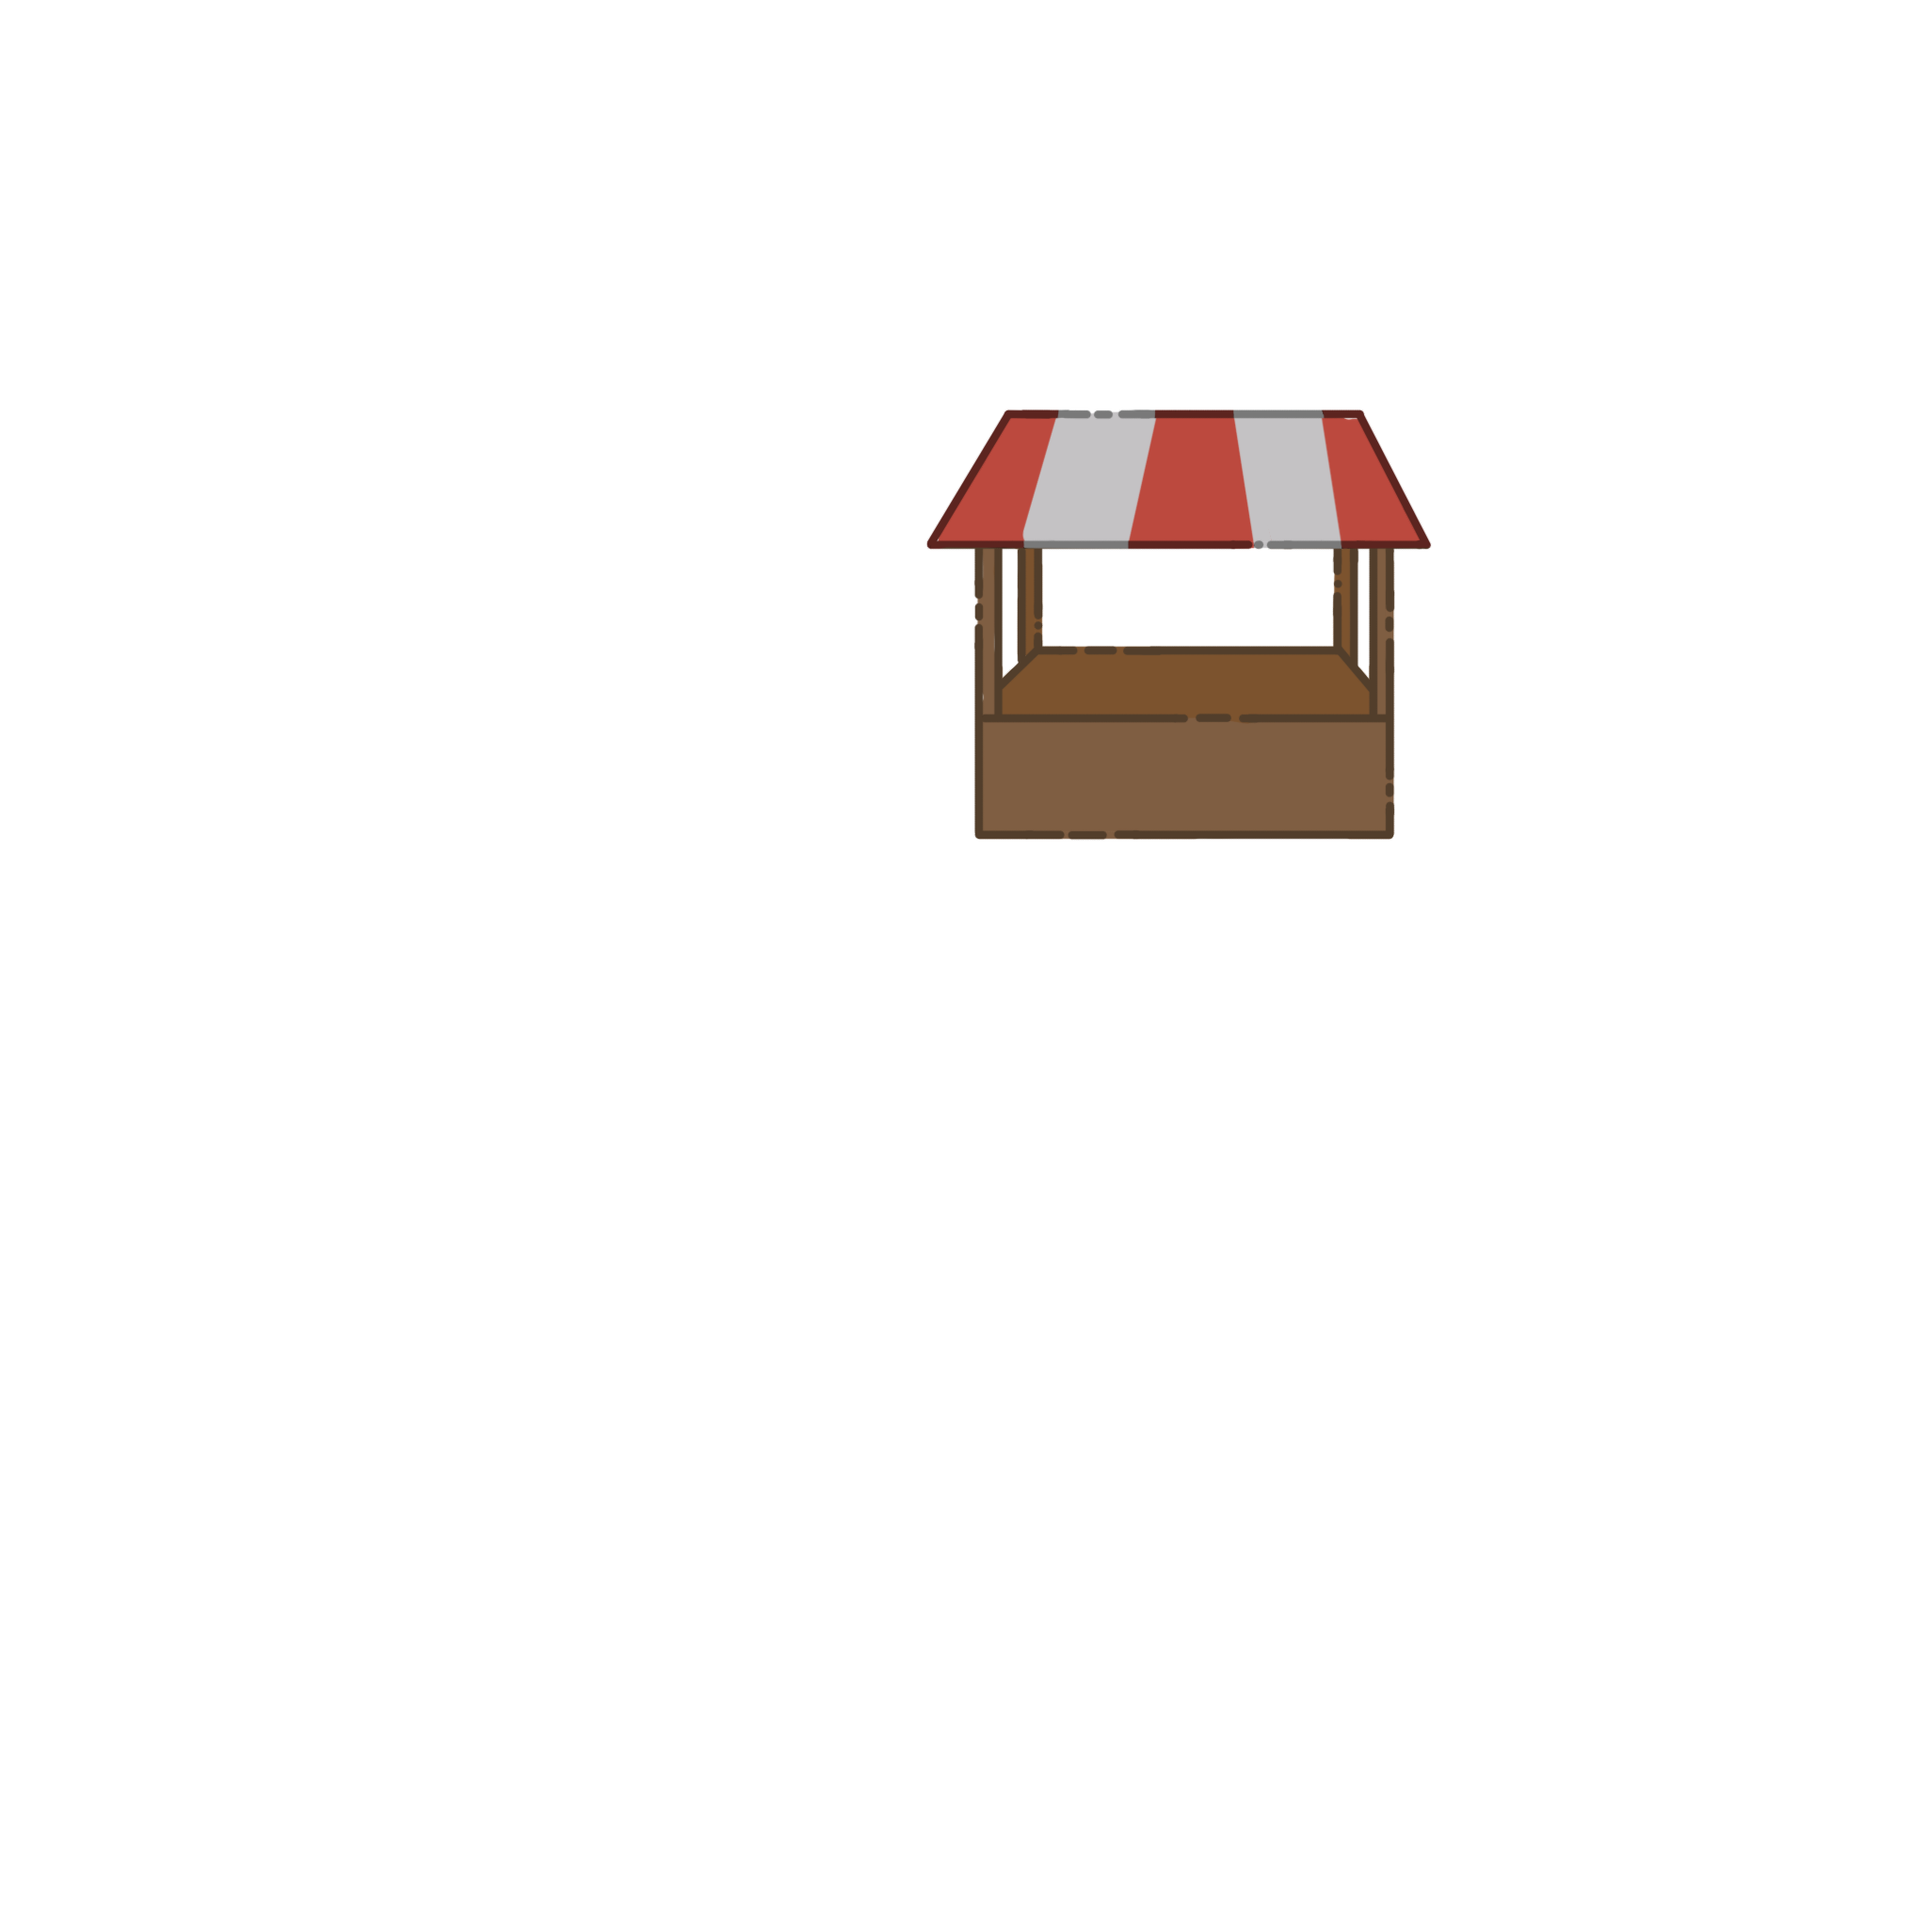
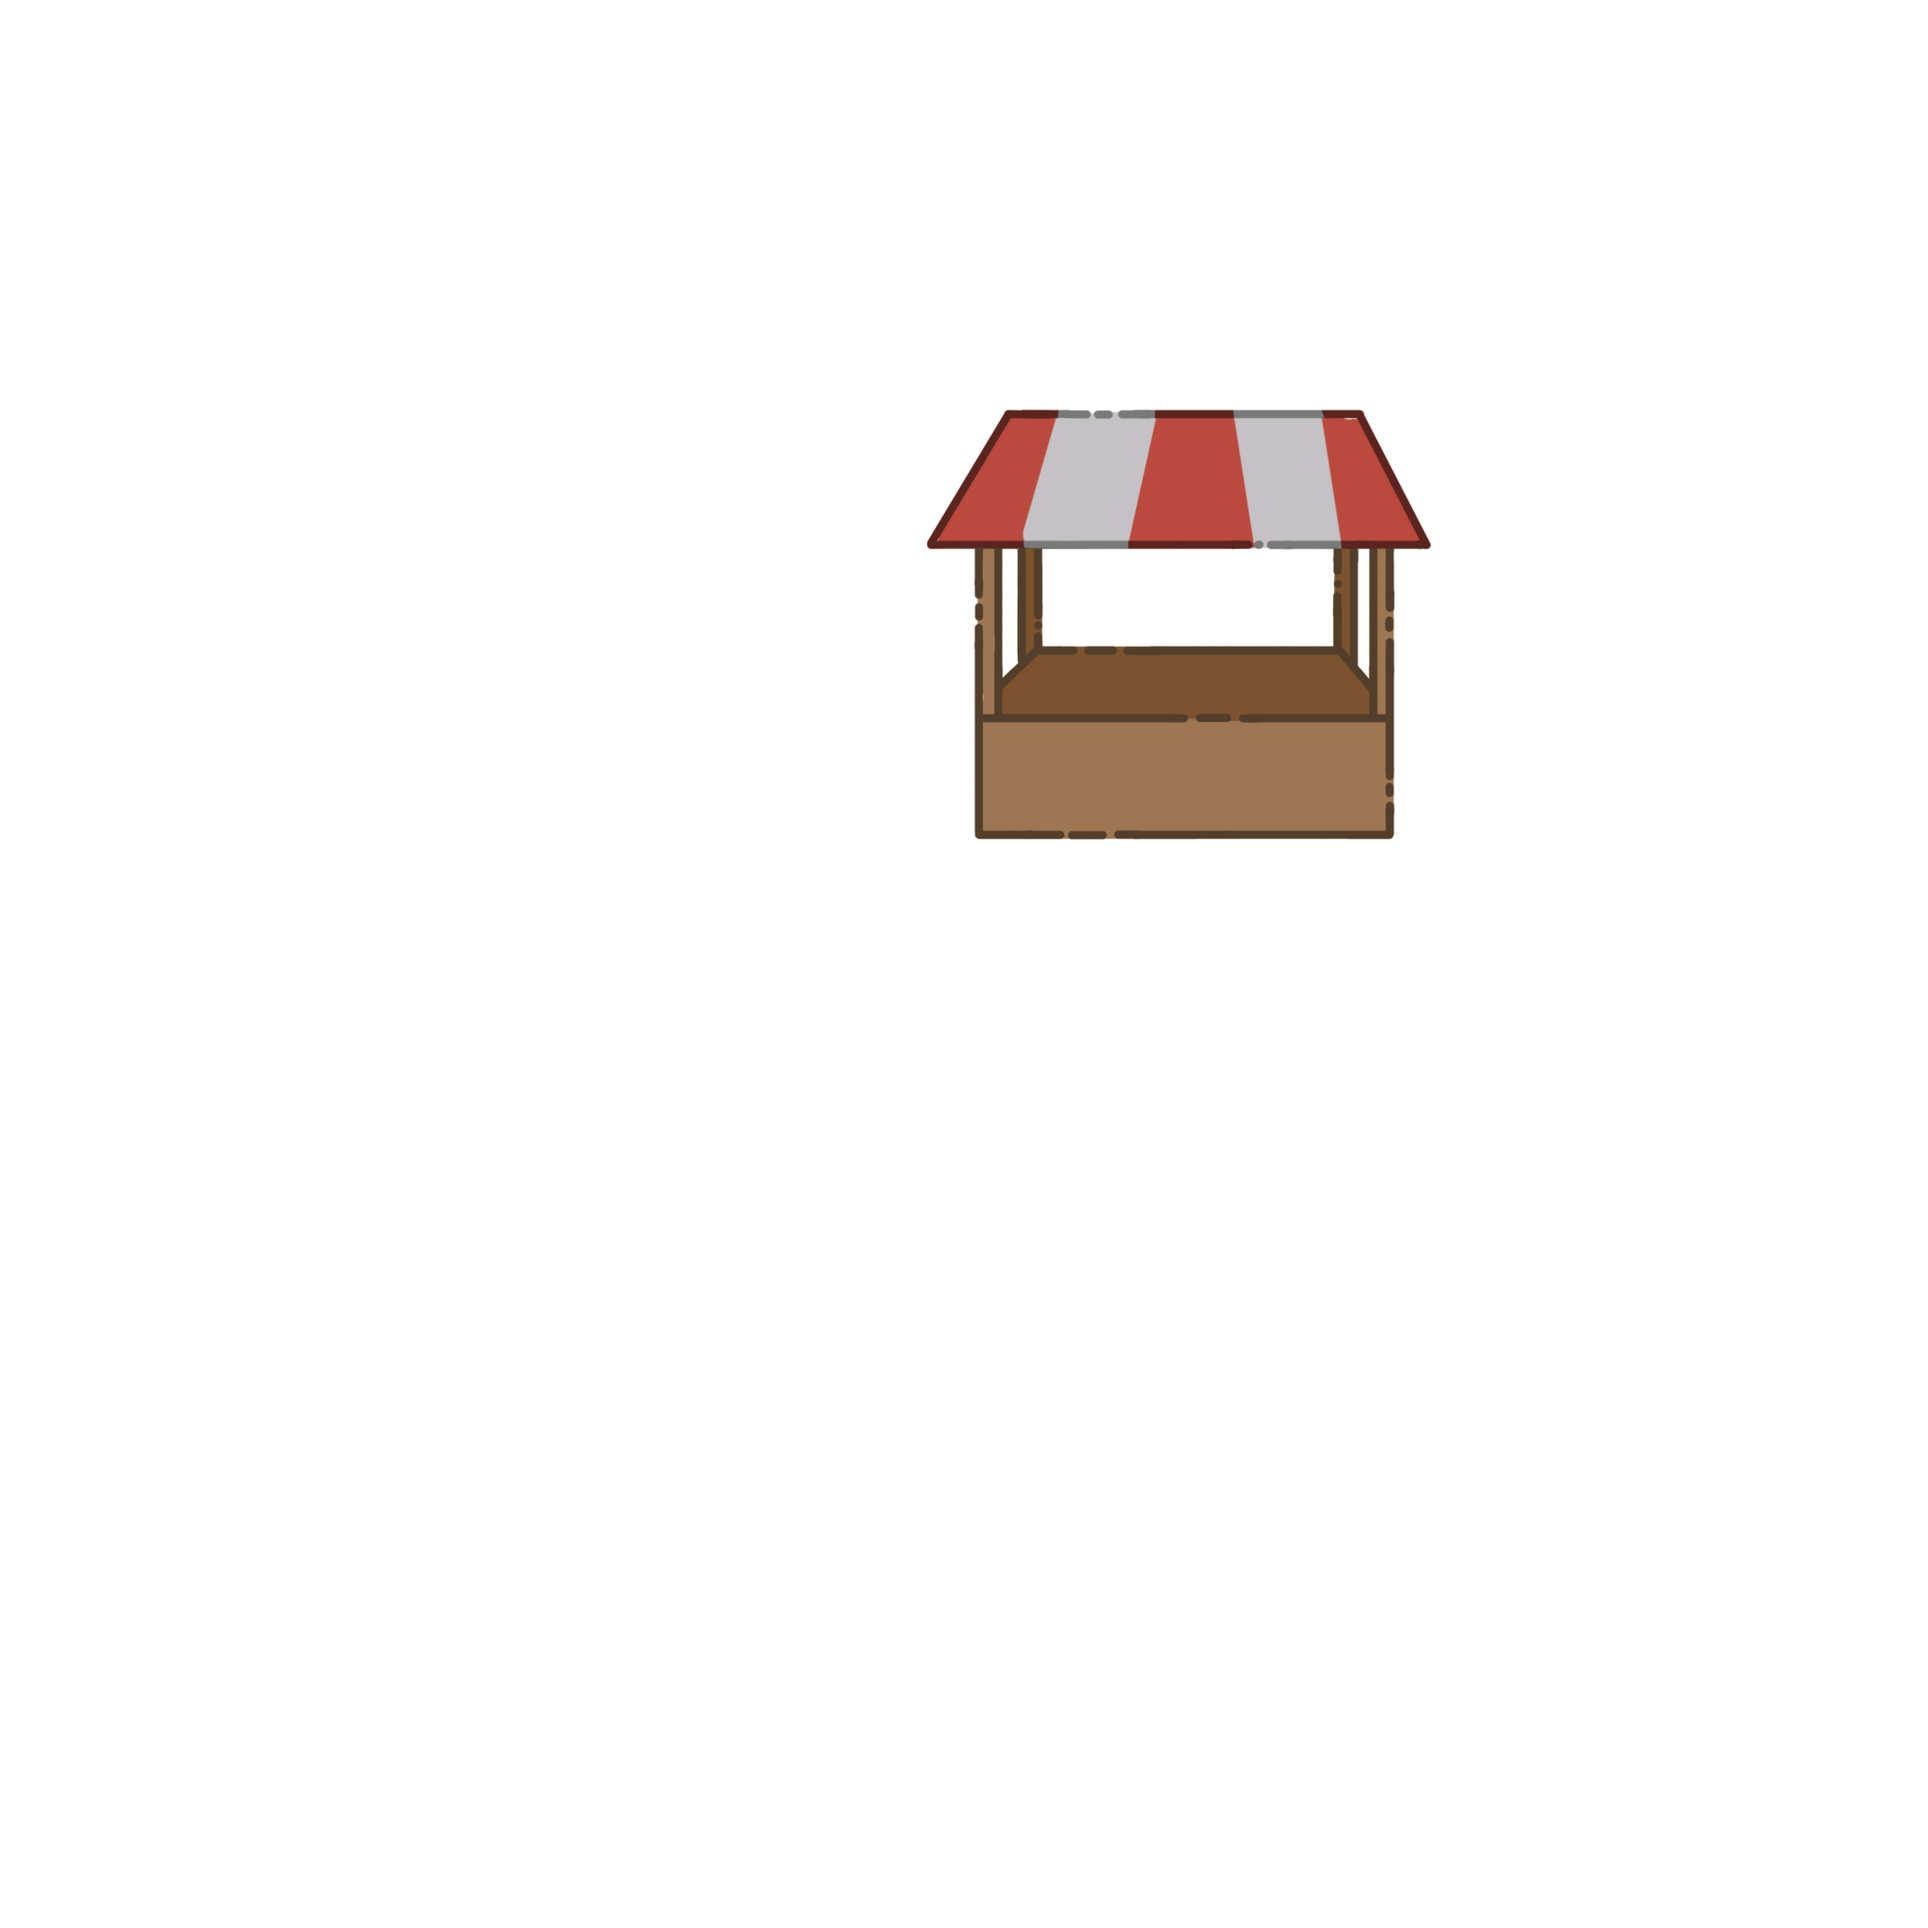
minor frontend fixes

Changed region(s): [[0.5, 0.2812, 0.7188, 0.4375]]

diff --git a/app/meet/[targetId]/MeetScene.tsx b/app/meet/[targetId]/MeetScene.tsx
@@ -98,7 +98,7 @@ export default function MeetScene({ targetId }: { targetId: string }) {
       <Shell>
         <h1>That&apos;s your own tag, silly fish! 🐟</h1>
         <p>Tap a friend&apos;s tag to meet them.</p>
-        <Link href="/world">Back to island</Link>
+        <Link href="/world">Back to beach</Link>
       </Shell>
     );
   if (phase.kind === "not_found")
@@ -106,7 +106,7 @@ export default function MeetScene({ targetId }: { targetId: string }) {
       <Shell>
         <h1>Hmm, no fish here 🫧</h1>
         <p>This tag doesn&apos;t belong to any resident (yet). Maybe they haven&apos;t finished onboarding?</p>
-        <Link href="/world">Back to island</Link>
+        <Link href="/world">Back to beach</Link>
       </Shell>
     );
 
@@ -144,7 +144,7 @@ export default function MeetScene({ targetId }: { targetId: string }) {
         <div className="meet-actions">
           <p className="muted">Tap their tag again to try again 🌊</p>
           <Link className="button secondary" href="/world">
-            Back to island
+            Back to beach
           </Link>
         </div>
       )}
@@ -172,7 +172,7 @@ function EndScreen({ meet, onReplay }: { meet: MeetResponse; onReplay: () => voi
         {/* No "try again": a new meet only happens by tapping their tag again (which then always works). */}
         <button onClick={onReplay}>Replay</button>
         <Link className="button secondary" href="/world">
-          Back to island
+          Back to beach
         </Link>
       </div>
     </div>

diff --git a/app/onboarding/OnboardingFlow.tsx b/app/onboarding/OnboardingFlow.tsx
@@ -267,7 +267,7 @@ export default function OnboardingFlow({ questions: allQuestions, returnTo }: { 
         {existing ? (
           <p>Answer the questions again and we&apos;ll refresh your profile. Your friends, levels and look all stay.</p>
         ) : (
-          <p>Answer a few quick questions out loud (or type) and we&apos;ll turn you into an island resident.</p>
+          <p>Answer a few quick questions out loud (or type) and we&apos;ll turn you into a beach resident.</p>
         )}
         <label htmlFor="name">What should your friends call you?</label>
         <input id="name" value={displayName} maxLength={60} onChange={(e) => setDisplayName(e.target.value)} />
@@ -418,7 +418,7 @@ export default function OnboardingFlow({ questions: allQuestions, returnTo }: { 
 
   return (
     <main>
-      <h1>Welcome to the island, {profile?.displayName} 🏝</h1>
+      <h1>Welcome to the beach, {profile?.displayName} 🏖</h1>
       <p>
         {existing ? "Your profile is updated, and your friends are all still here." : "Your resident profile is saved."}
         {returnTo ? " Taking you back…" : ""}
@@ -429,7 +429,7 @@ export default function OnboardingFlow({ questions: allQuestions, returnTo }: { 
       {!returnTo && (
         <p>
           <Link className="button" href="/world">
-            Go to your island →
+            Go to your beach →
           </Link>
         </p>
       )}

diff --git a/app/world/World.tsx b/app/world/World.tsx
@@ -39,13 +39,13 @@ export default function World() {
       .then(async (res) => {
         if (res.status === 404) return toOnboarding(); // stale id in localStorage
         const json = await res.json().catch(() => ({}));
-        if (!res.ok) throw new Error(json.error || `Couldn't load the island (${res.status})`);
+        if (!res.ok) throw new Error(json.error || `Couldn't load the beach (${res.status})`);
         setLoad({ kind: "ready", world: json as WorldResponse });
       })
       .catch((err: Error) => setLoad({ kind: "error", message: err.message }));
   }, [router]);
 
-  if (load.kind === "loading") return <main className="meet-shell"><p className="muted">Swimming to the island…</p></main>;
+  if (load.kind === "loading") return <main className="meet-shell"><p className="muted">Swimming to the beach…</p></main>;
   if (load.kind === "error")
     return (
       <main className="meet-shell">
@@ -97,7 +97,7 @@ function Island({ world }: { world: WorldResponse }) {
   return (
     <div className="world-page" style={vars}>
       <header className="world-header">
-        <span className="world-title">🏝 {me.displayName}&apos;s island</span>
+        <span className="world-title">🏖 {me.displayName}&apos;s beach</span>
         <Link className="world-profile-btn" href="/me" aria-label="My profile">
           🐟 Me
         </Link>

diff --git a/lib/meet/prompt.ts b/lib/meet/prompt.ts
@@ -81,7 +81,7 @@ export const DIALOGUE_SYSTEM_PROMPT = `You write the middle of a short friend-ma
 Write TWO variants:
 - friendsLines (${MIDDLE_LINES.min}-${MIDDLE_LINES.max} lines): they chat happily about their REAL overlaps (use the connections given, especially the spotlight and any bridge).
 - clammedUpLines (${MIDDLE_LINES.min}-${MIDDLE_LINES.max} lines): shy and awkward, a few near-misses, but still touching on the spotlight connection, ending on a hopeful note.
-Also write bumpLines (${BUMP_LINES.min}-${BUMP_LINES.max} items): tiny speech-bubble exchanges for when these two fish bump into each other while wandering the island. a = fish a's bubble, b = fish b's reply. Each side AT MOST ${BUMP_MAX_WORDS} WORDS, lowercase-casual, about their real overlaps, one emoji allowed, no names at all. Examples: { "a": "honkai star rail?", "b": "gaming!!" }, { "a": "skewers later?", "b": "always 🍢" }.
+Also write bumpLines (${BUMP_LINES.min}-${BUMP_LINES.max} items): tiny speech-bubble exchanges for when these two fish bump into each other while wandering the beach. a = fish a's bubble, b = fish b's reply. Each side AT MOST ${BUMP_MAX_WORDS} WORDS, lowercase-casual, about their real overlaps, one emoji allowed, no names at all. Examples: { "a": "honkai star rail?", "b": "gaming!!" }, { "a": "skewers later?", "b": "always 🍢" }.
 
 ${DIALOGUE_STYLE}
 

diff --git a/app/me/page.tsx b/app/me/page.tsx
@@ -98,7 +98,7 @@ export default function MePage() {
     <main className="creator-page">
       <p className="me-back">
         <Link href="/world" onClick={guard}>
-          ← Back to island
+          ← Back to beach
         </Link>
       </p>
       <h1>{profile.displayName} 🐟</h1>
@@ -128,7 +128,7 @@ export default function MePage() {
           </button>
         </div>
         <p className="creator-status" aria-live="polite">
-          {save.kind === "saved" && !changed && "Saved! Your fish is showing off its new look on the island. ✨"}
+          {save.kind === "saved" && !changed && "Saved! Your fish is showing off its new look on the beach. ✨"}
           {save.kind === "error" && <span className="error">{save.message}</span>}
         </p>
       </section>
@@ -189,7 +189,7 @@ export default function MePage() {
       </section>
       <p>
         <Link href="/world" onClick={guard}>
-          Back to island
+          Back to beach
         </Link>{" "}
         ·{" "}
         <Link href="/onboarding" onClick={guard}>

diff --git a/lib/profile/prompt.ts b/lib/profile/prompt.ts
@@ -2,7 +2,7 @@ import { getQuestion } from "@/lib/onboarding/questions";
 import { TONE_RULES } from "@/lib/ai/tone";
 import type { Answer } from "@/lib/profile/schema";
 
-export const EXTRACTION_SYSTEM_PROMPT = `You build a friendly "resident profile" for a social app set on a seaside market island, where every friend is a resident. The profile will later be used to find common ground between real friends and suggest IRL hangouts.
+export const EXTRACTION_SYSTEM_PROMPT = `You build a friendly "resident profile" for a social app set on a seaside market beach, where every friend is a resident. The profile will later be used to find common ground between real friends and suggest IRL hangouts.
 
 You receive a person's spoken answers to onboarding questions. They are raw speech-to-text transcripts:
 - Expect filler ("um", "like", "idk"), run-on sentences, self-corrections ("wait no, I mean...") and occasional mis-hearings. When someone corrects themselves, use the corrected version.

diff --git a/lib/meet/schema.ts b/lib/meet/schema.ts
@@ -55,7 +55,7 @@ export type BumpLine = z.infer<typeof BumpLineSchema>;
 export const DialogueSchema = z.object({
   friendsLines: z.array(DialogueLineSchema).min(2).max(10),
   clammedUpLines: z.array(DialogueLineSchema).min(2).max(10),
-  bumpLines: z.array(BumpLineSchema).max(12).describe("5-8 tiny exchanges for when they bump into each other on the island"),
+  bumpLines: z.array(BumpLineSchema).max(12).describe("5-8 tiny exchanges for when they bump into each other on the beach"),
 });
 /** Parsing is lenient on bumpLines: bad or missing ones fall back to templates instead of costing a retry. */
 export const DialogueParseSchema = DialogueSchema.extend({

diff --git a/app/layout.tsx b/app/layout.tsx
@@ -7,7 +7,7 @@ const lilac = localFont({ src: "./fonts/LILAC.otf", variable: "--font-app", disp
 
 export const metadata: Metadata = {
   title: "Seaside Market — Onboarding",
-  description: "Tell us about yourself and become a resident of the island.",
+  description: "Tell us about yourself and become a resident of the beach.",
 };
 
 export const viewport: Viewport = {

diff --git a/app/dev/whoami/WhoAmI.tsx b/app/dev/whoami/WhoAmI.tsx
@@ -70,7 +70,7 @@ export default function WhoAmI({ users }: { users: User[] }) {
         {me && (
           <>
             {" "}
-            · <Link href="/world">Go to my island →</Link>
+            · <Link href="/world">Go to my beach →</Link>
           </>
         )}
       </p>

diff --git a/app/world/page.tsx b/app/world/page.tsx
@@ -1,6 +1,6 @@
 import World from "./World";
 
-export const metadata = { title: "Seaside Market — Your island" };
+export const metadata = { title: "Seaside Market — Your beach" };
 
 export default function WorldPage() {
   return <World />;
